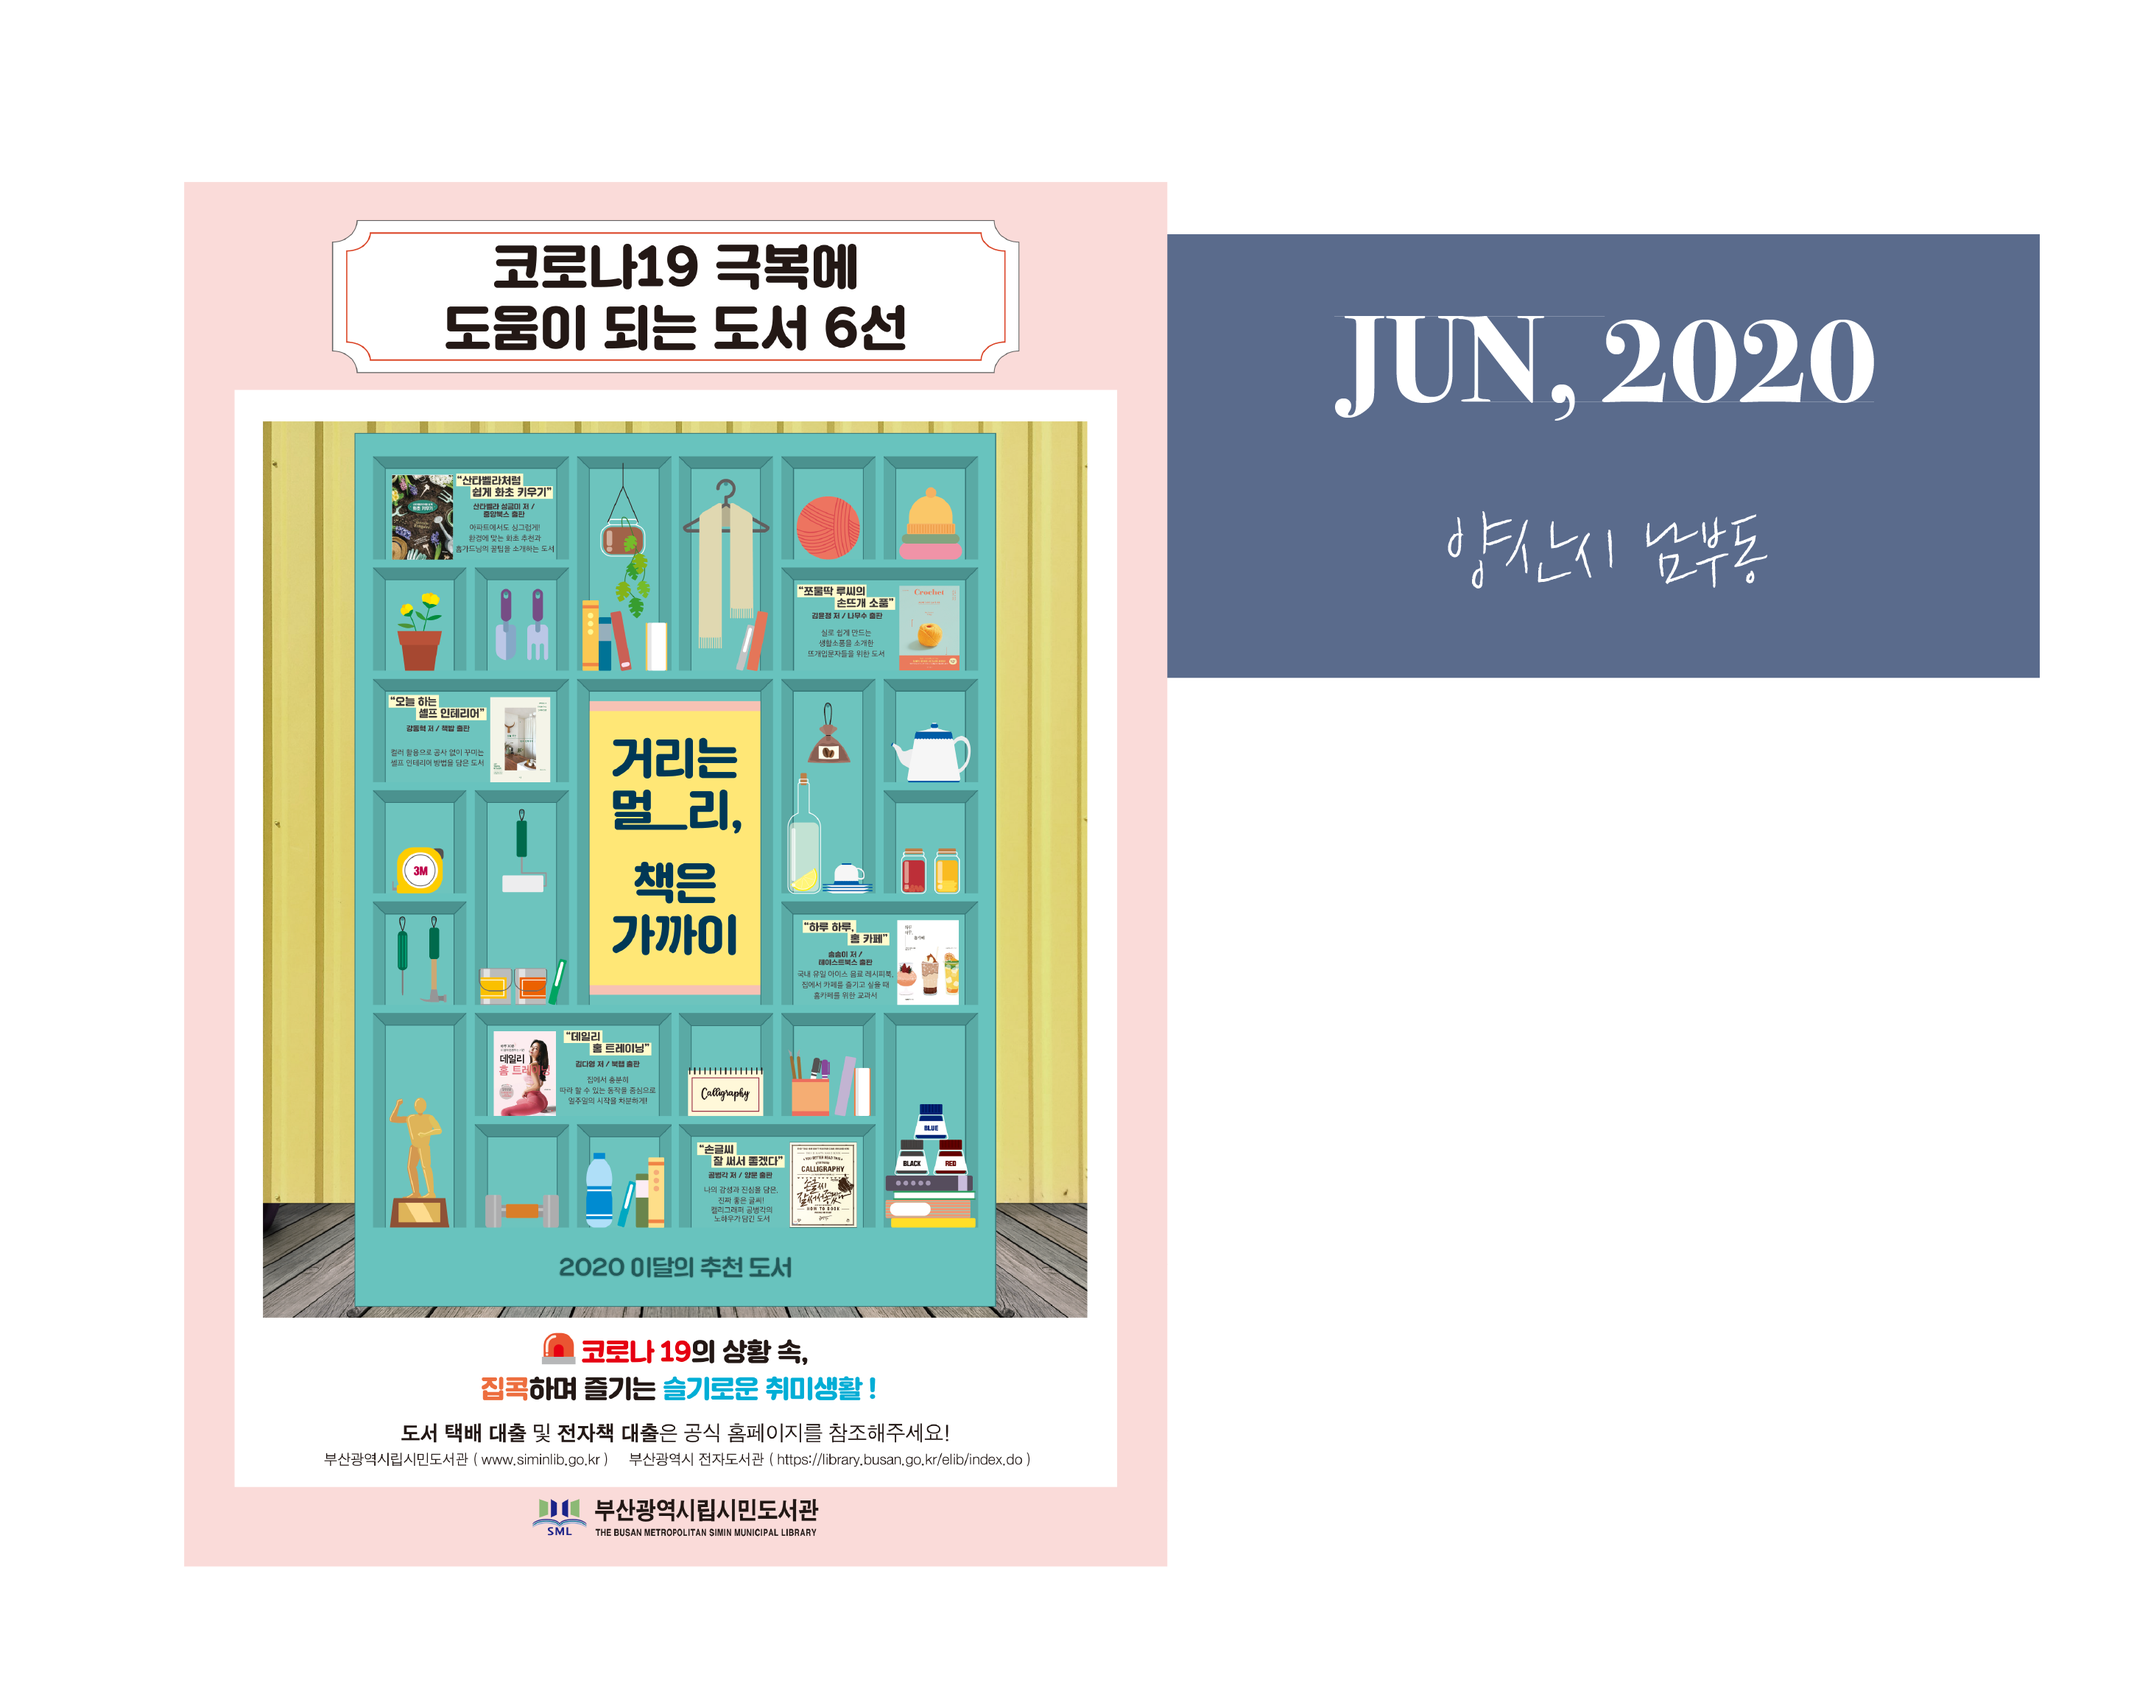
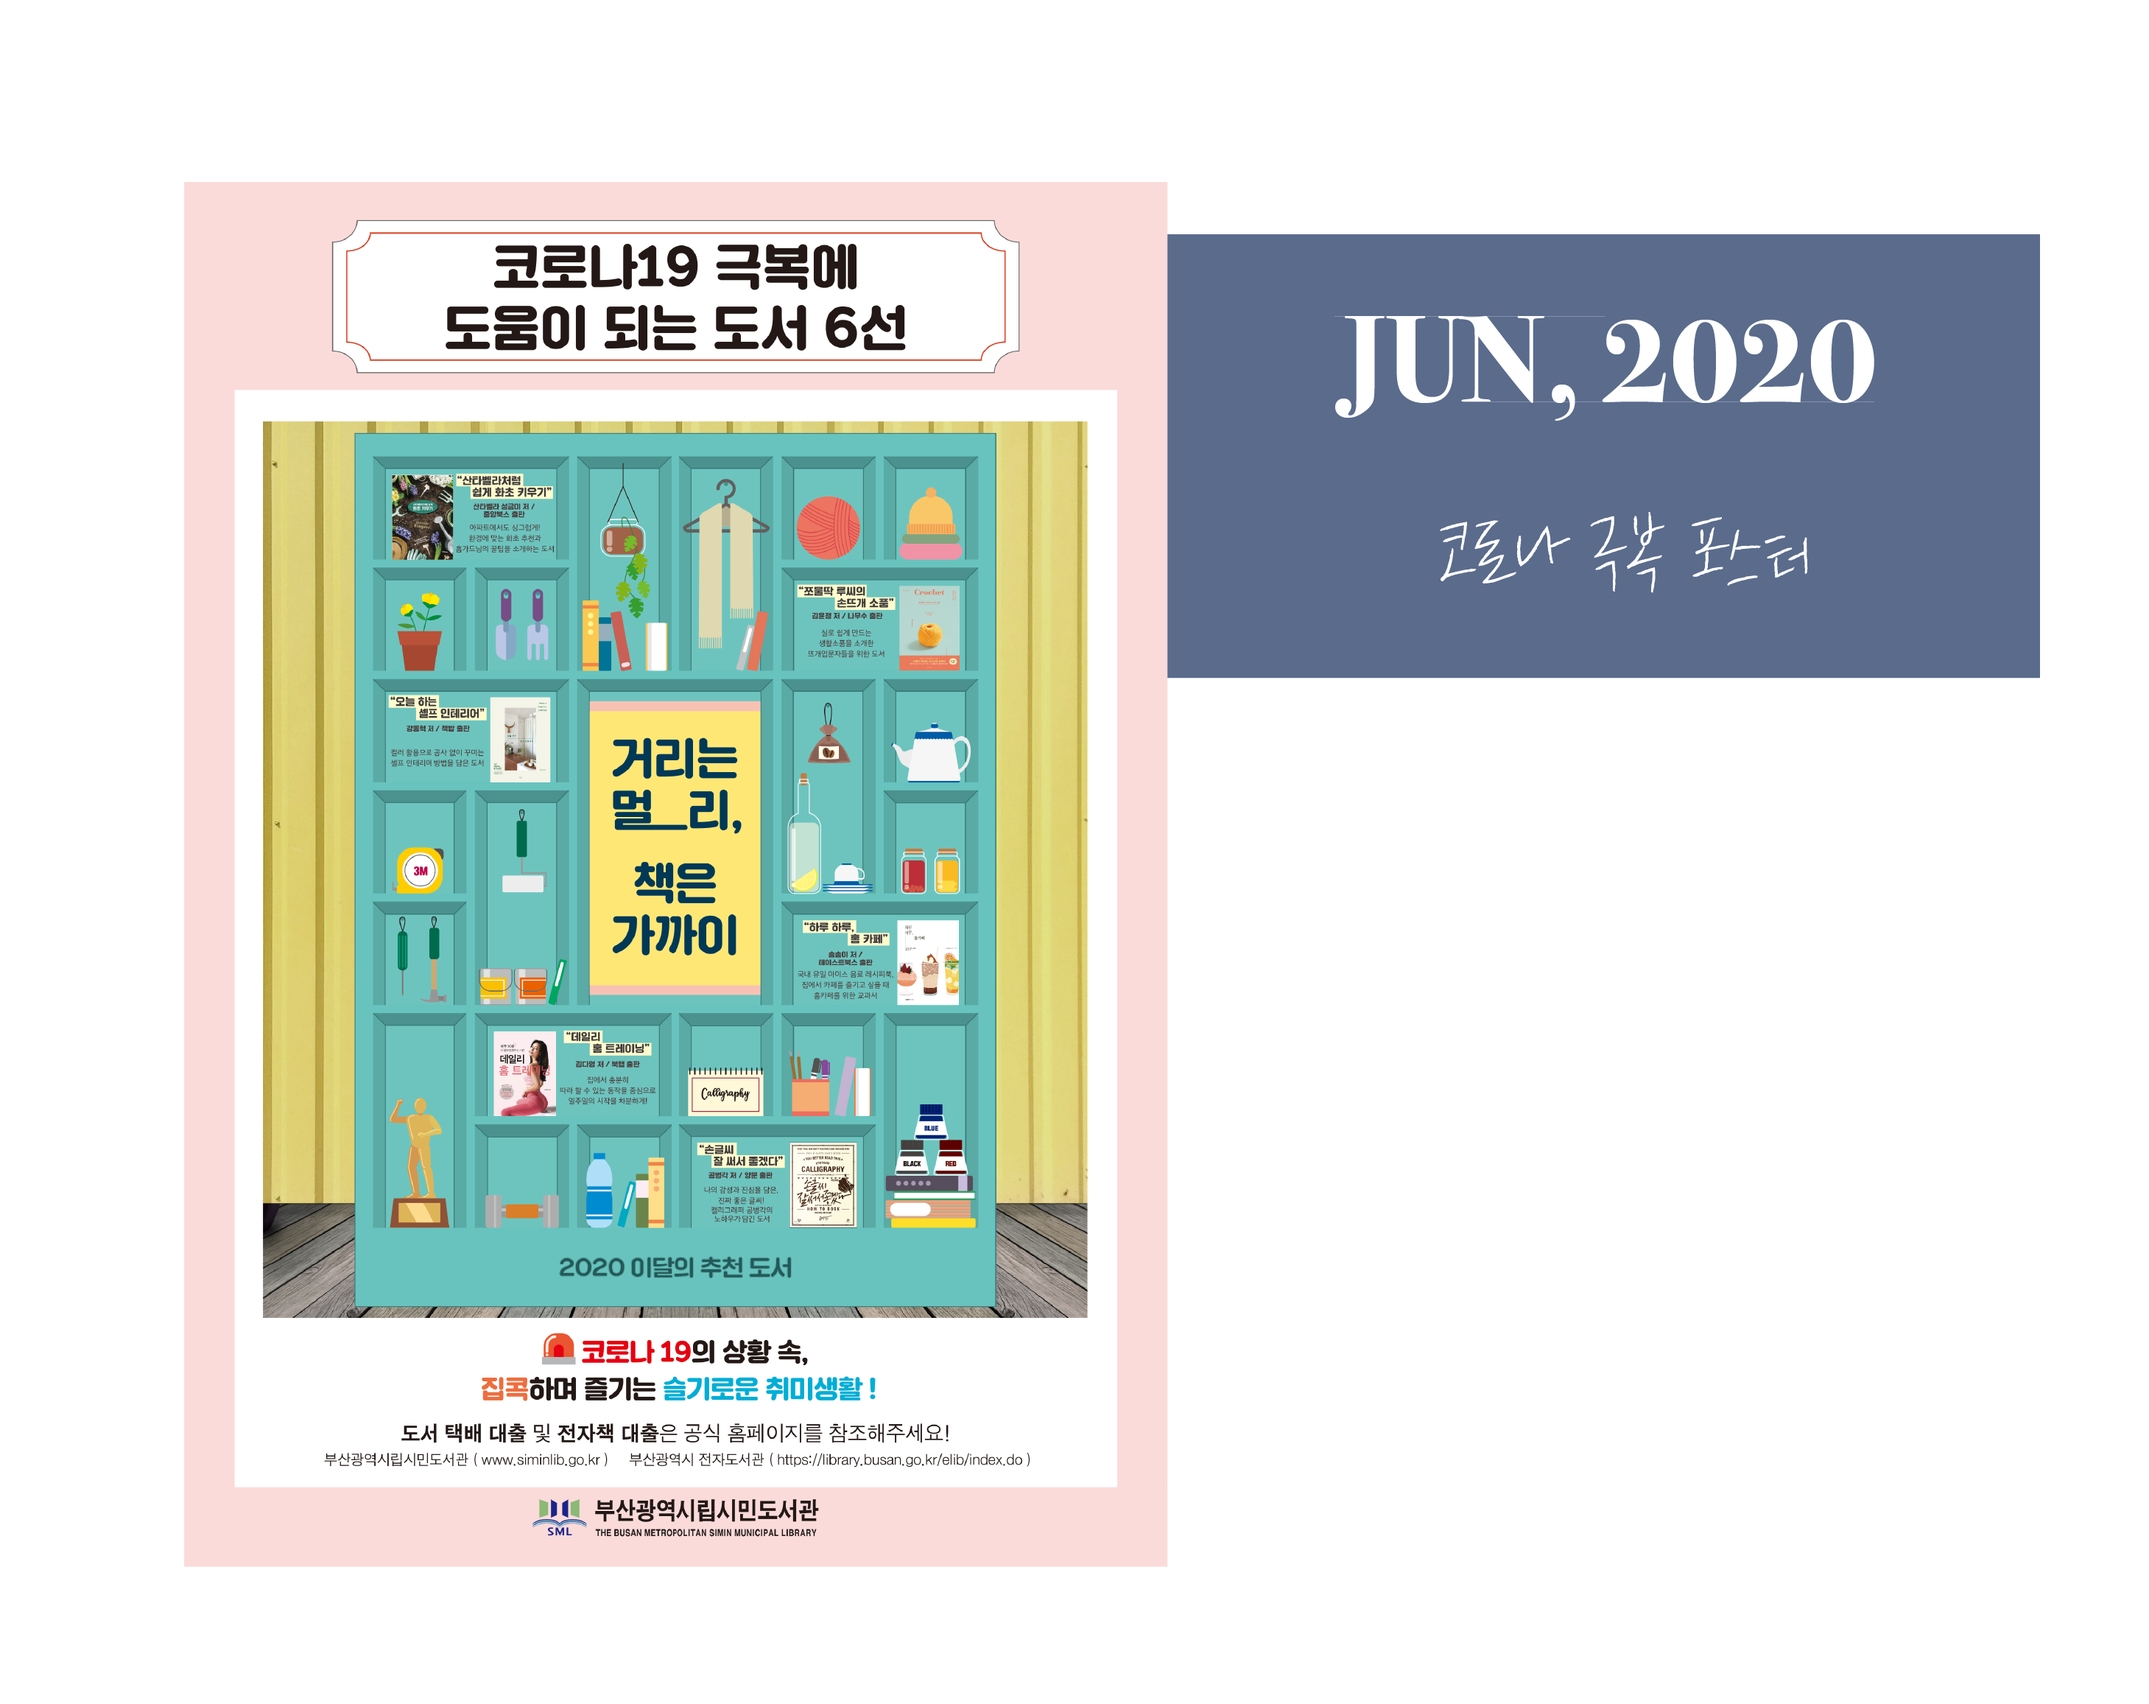
po

diff --git a/main.css b/main.css
@@ -3,12 +3,15 @@ header{
     margin-right: auto;
     margin-left: auto;
     background-color: #e3dacb;
-    padding: 30px;
+    padding-top: 10px;
+    padding-bottom: 250px;
+    padding-left: 100px;
+    padding-right: 100px;
     overflow: hidden;}
 
     
 header nav{
-    width: 70%;
+    width: 90%;
     float: right}
 
 nav ul{
@@ -17,10 +20,10 @@ nav ul{
 
 nav ul li{
     display: inline;
-    margin: 40px;
+    margin: 50px;
     float: right;
     font-size: large;
-    font-style: thick;
+    font-weight: bold;
 }
 
 nav ul li a{
@@ -36,4 +39,96 @@ section {
     padding: 100px;
     overflow: hidden;}
 }
+
+@font-face{
+    font-family: NanumGothic;
+    src:url('NanumGothic.ttf');
+    font-weight: normal;
+}
+
+p1{
+    font-family: NanumGothic;
+    font-size: 20px;
+    line-height: 20px;
+    text-align: center;
+    color: brown;
+    font-weight: bold;
+    
+}
+
+p2{
+    font-family: NanumGothic;
+    font-size: 15px;
+    line-height: 20px;
+    text-align: center;
+    color: #4F4037;
+}
+
+p3{
+    font-family: NanumGothic;
+    font-size: 15px;
+    line-height: 20px;
+    text-align: center;
+    color: #77b7c6;
+    font-weight: bold;
+    
+}
+
+p4{
+    font-family: NanumGothic;
+    font-size: 15px;
+    line-height: 20px;
+    text-align: center;
+    color: #4F4037;
+    
+}
+
+p6{
+    font-family: NanumGothic;
+    font-size: 13px;
+    line-height: 20px;
+    text-align: center;
+    color: #95877f;
+}
+
+.img_coin{
+    float: inherit;
+    margin: 5px;
+    display: block;
+    width: 200px;
+    height: 200px;
+    border-radius: 50%;
+}
+
+.img_coin:hover{
+    transform: rotate3d(1,0,0,360deg);
+    transition: transform 2s cubic-bezier(.09,.72,.54,.95);
+}
+
+#coin1{
+    background: url("coin3-01.png");
+    background-size: 200px;
+
+}
+
+#coin2{
+    background: url("coin1-01.png");
+    background-size: 200px;
+    float: inherit;
+}
+
+#coin3{
+    background: url("coin2-01.png");
+    background-size: 200px;
+   
+}
+
+p{
+    font-family: NanumGothic;
+    font-size: 15px;
+    line-height: 20px;
+    text-align: center;
+    color: #4F4037;
+    font-weight: bold;
+    
 

diff --git a/index.html b/index.html
@@ -6,7 +6,8 @@
         <title>S-Archive</title>
         <link href="main.css" rel="stylesheet" type="text/css">
         <style>
-            body {background-color: #e3dacb;}
+            body {background-color: #7c5e2b;}
+        
         </style>
     </head>
     <body>
@@ -17,11 +18,32 @@
         <li><a href="ect.html">ECT.</a></li>
         <li><a href="photo.html">PHOTO</a></li>
         <li><a href="illust.html">ILLUSTRATION</a></li>
-        <li><a href="jiun.html">JIUN</a></li> 
         </ul></nav>
         </header>
     </body>
     
     <section>
-        
+       <center><p1> S-Archive<br></p1>
+           <br>
+           <p2>저의 기록 보관소에 오신 것을 환영합니다.</p2> 
+        </center> 
+        <img src="ill-02.png" width="1420" height="770">
+        <center><p3>NOVEMBER,2020 PORTFOLIO<br>
+            <br> 창작 캐릭터 토무리 & 고무리 굿즈 목업<br><br><br>
+            </p3>
+        <p4>평소 정말 관심 많았던 캐릭터 디자인.
+        <br> 친구네 토끼와 학교 기숙사 고양이를 보고<br>
+            영감을 얻어 탄생하게 된 캐릭터라 그런지<br>
+            더 애착을 가지고 제작한 것 같습니다.<br>
+            기회가 된다면 실물로 제작해보고  싶어요!
+            </p4><br><br><br><br><br><br><br><br><br><br><br><br>
+    <a href="illust.html"><div class="img_coin" id="coin1"></div></a>
+        <p>ILLUSTRATION</p><br>
+        <a href="photo.html"><div class="img_coin" id="coin2"></div> </a><p>PHOTO</p><br>
+            <a href="ect.html"><div class="img_coin" id="coin3"></div> </a><p>ECT.</p> </center>
+        <br><br><br><br><br><br><br><br><br><br><br><br>
+        <br><br><br><br>
+    <center><p6>
+        Copyright 2019-2020. 신지언 All rights reserved.
+       <br> <br> TEL : 010-0000-0000   <br>INSTA : @no_march_for_d</p6></center>
     </section>

diff --git a/photo.html b/photo.html
@@ -1,0 +1,37 @@
+<!doctype html>
+<html lang="ko">
+    <head>
+    <meta charset="utf-8">
+        <link rel="icon" href="LOGO.png">
+        <title>S-Archive</title>
+        <link href="main.css" rel="stylesheet" type="text/css">
+        <style>
+            body {background-color: #7c5e2b;}
+        
+        </style>
+    </head>
+    <body>
+    <header> 
+        <img src="LOGO.png" width="90" >
+        <nav>
+        <ul>
+        <li><a href="ect.html">ECT.</a></li>
+        <li><a href="photo.html">PHOTO</a></li>
+        <li><a href="illust.html">ILLUSTRATION</a></li>
+        </ul></nav>
+        </header>
+    </body>
+    
+    <section><center> <img src="photo_01.png" width="1500px"><br><p4>JUL,2019 <br><br>양산시 교동 구름다리</p4>
+    <br><br><br><br><br><br><br>
+        <img src="photo-02.png" width="1500px"><br><p4>AUG,2019 <br><br>'사천시 송포동'</p4>
+         <br><br><br><br><br><br><br>
+        <img src="photo-03.png" width="1500px"><br><p4>JUL,2019 <br><br>양산시 동면</p4><br><br><br><br><br><br><br>
+        <img src="photo-04.png" width="1500px"><br><p4>JUL,2019<br><br>양산시 남부동</p4><br><br><br><br><br><br><br>
+        <img src="photo-05.png" width="1500px"><br><p4>JUL,2019<br><br>부산광역시 진구 전포동</p4><br><br><br><br><br><br><br>
+        <img src="photo-06.png" width="1500px"><br><p4>DEC,2019 <br><br>부산광역시 진구 전포동</p4><br><br><br><br><br><br><br>
+        <img src="photo-07.png" width="1500px"><br><p4>MAR,2020<br><br>양산시 물금읍 범어리</p4>
+        <br><br><br><br><br><br><br><br><br><br><br><br><br><br>
+          <p6>Copyright 2019-2020. 신지언 All rights reserved.
+       <br> <br> TEL : 010-0000-0000   <br>INSTA : @no_march_for_d</p6></center>
+    </section>

diff --git a/ect.html b/ect.html
@@ -1,0 +1,35 @@
+<!doctype html>
+<html lang="ko">
+    <head>
+    <meta charset="utf-8">
+        <link rel="icon" href="LOGO.png">
+        <title>S-Archive</title>
+        <link href="main.css" rel="stylesheet" type="text/css">
+        <style>
+            body {background-color: #7c5e2b;}
+        
+        </style>
+    </head>
+    <body>
+    <header> 
+        <img src="LOGO.png" width="90" >
+        <nav>
+        <ul>
+        <li><a href="ect.html">ECT.</a></li>
+        <li><a href="photo.html">PHOTO</a></li>
+        <li><a href="illust.html">ILLUSTRATION</a></li>
+        </ul></nav>
+        </header>
+    </body>
+    
+    <section><center> <img src="ECT_01.png" width="1500px"><br><p4>OCT,2019 <br><br>오이+리코더 합성</p4>
+    <br><br><br><br><br><br><br>
+        <img src="ECT-02.png" width="1500px"><br><p4>MAY,2020 <br><br>'든든' 가게 로고 디자인</p4>
+         <br><br><br><br><br><br><br>
+        <img src="ECT-03.png" width="1500px"><br><p4>DEC,2020 <br><br>영화 포스터 디자인</p4><br><br><br><br><br><br><br>
+        <img src="ECT-04.png" width="1500px"><br><p4>MAY,2020<br><br>과자 패키지 해부 포스터</p4><br><br><br><br><br><br><br>
+        <img src="ECT-05.png" width="1500px"><br><p4>JUN,2020<br><br>타이포 그래피 포스터</p4>
+        <br><br><br><br><br><br><br><br><br><br><br><br><br><br>
+          <p6>Copyright 2019-2020. 신지언 All rights reserved.
+       <br> <br> TEL : 010-0000-0000   <br>INSTA : @no_march_for_d</p6></center>
+    </section>

diff --git a/illust.html b/illust.html
@@ -1,0 +1,33 @@
+<!doctype html>
+<html lang="ko">
+    <head>
+    <meta charset="utf-8">
+        <link rel="icon" href="LOGO.png">
+        <title>S-Archive</title>
+        <link href="main.css" rel="stylesheet" type="text/css">
+        <style>
+            body {background-color: #7c5e2b;}
+        
+        </style>
+    </head>
+    <body>
+    <header> 
+        <img src="LOGO.png" width="90" >
+        <nav>
+        <ul>
+        <li><a href="ect.html">ECT.</a></li>
+        <li><a href="photo.html">PHOTO</a></li>
+        <li><a href="illust.html">ILLUSTRATION</a></li>
+        </ul></nav>
+        </header>
+    </body>
+    
+    <section><center> <img src="ill_01.png" width="1500px"><br><p4>DEC,2019 <br><br>포스터 일러스트</p4>
+    <br><br><br><br><br><br><br>
+        <img src="ill-02.png" width="1500px"><br><p4>NOV,2020 <br><br>'토무리&고무리' 목업</p4>
+         <br><br><br><br><br><br><br>
+        <img src="ill-03.png" width="1500px"><br><p4>DEC,2020 <br><br>HBD 편지지 일러스트</p4><br><br><br><br><br><br><br>
+        <img src="ill-04.png" width="1500px"><br><p4>JUN,2020 <br><br>코로나 극복 포스터</p4><br><br><br><br><br><br><br><br><br><br><br><br><br><br>
+          <p6>Copyright 2019-2020. 신지언 All rights reserved.
+       <br> <br> TEL : 010-0000-0000   <br>INSTA : @no_march_for_d</p6></center>
+    </section>
